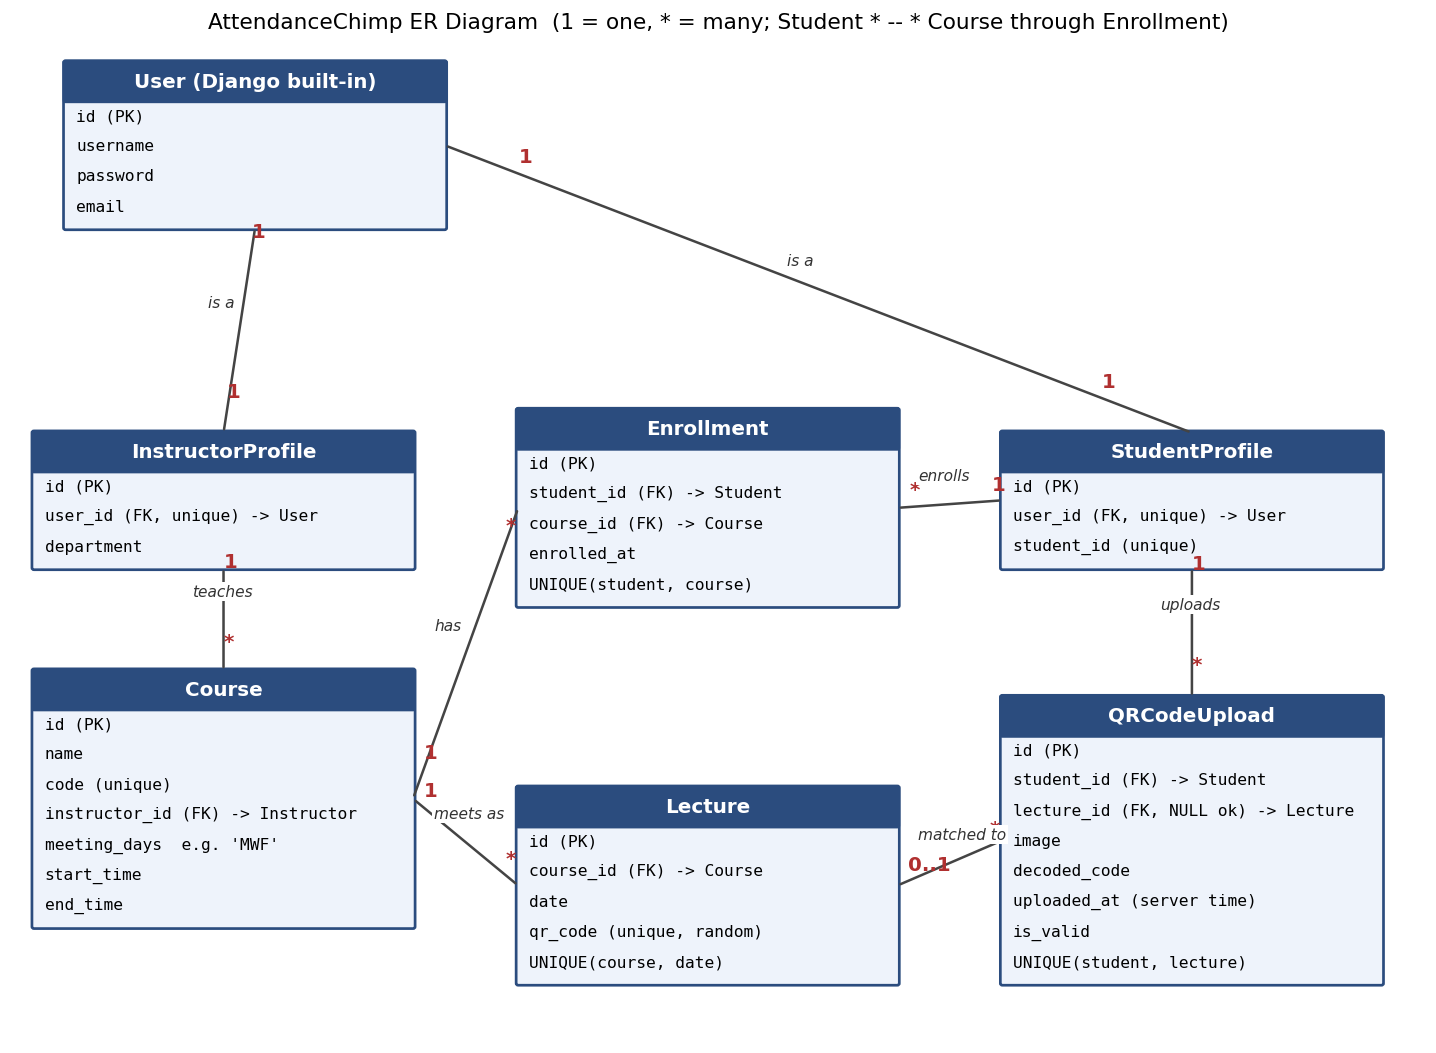
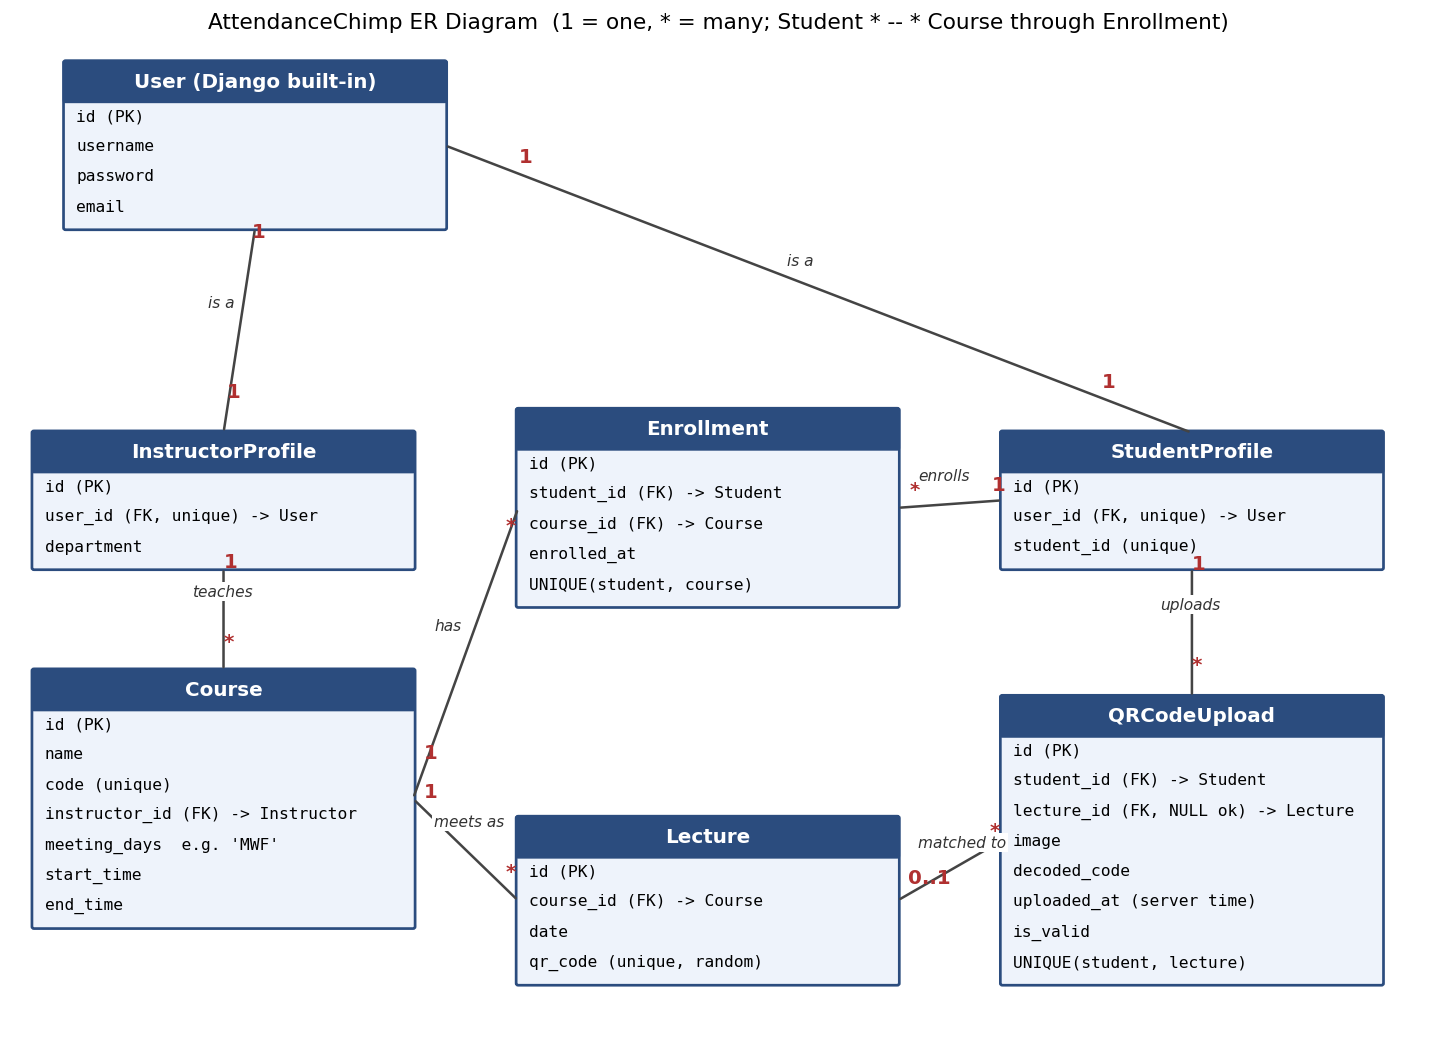
Allow multiple lectures per day; move llm-comparison.txt to top level

Changed region(s): [[0.3064, 0.7293, 0.7047, 0.9421]]

diff --git a/attendancechimp/app/models.py b/attendancechimp/app/models.py
@@ -147,17 +147,12 @@ class Lecture(models.Model):
 
     qr_code is a random identifier made automatically when the lecture is
     created; it is unique so a code from one lecture can't be reused for
-    another. A course has at most one lecture per date.
+    another. A course can have more than one lecture on the same date
+    (e.g. a lab and a lecture), each with its own QR code.
     """
     course = models.ForeignKey(Course, on_delete=models.CASCADE)
     date = models.DateField()
     qr_code = models.CharField(max_length=32, unique=True, default=generate_qr_code)
-
-    class Meta:
-        constraints = [
-            models.UniqueConstraint(fields=["course", "date"],
-                                    name="unique_lecture_per_day"),
-        ]
 
     def attendance_count(self):
         """Number of students with a valid upload for this lecture."""
